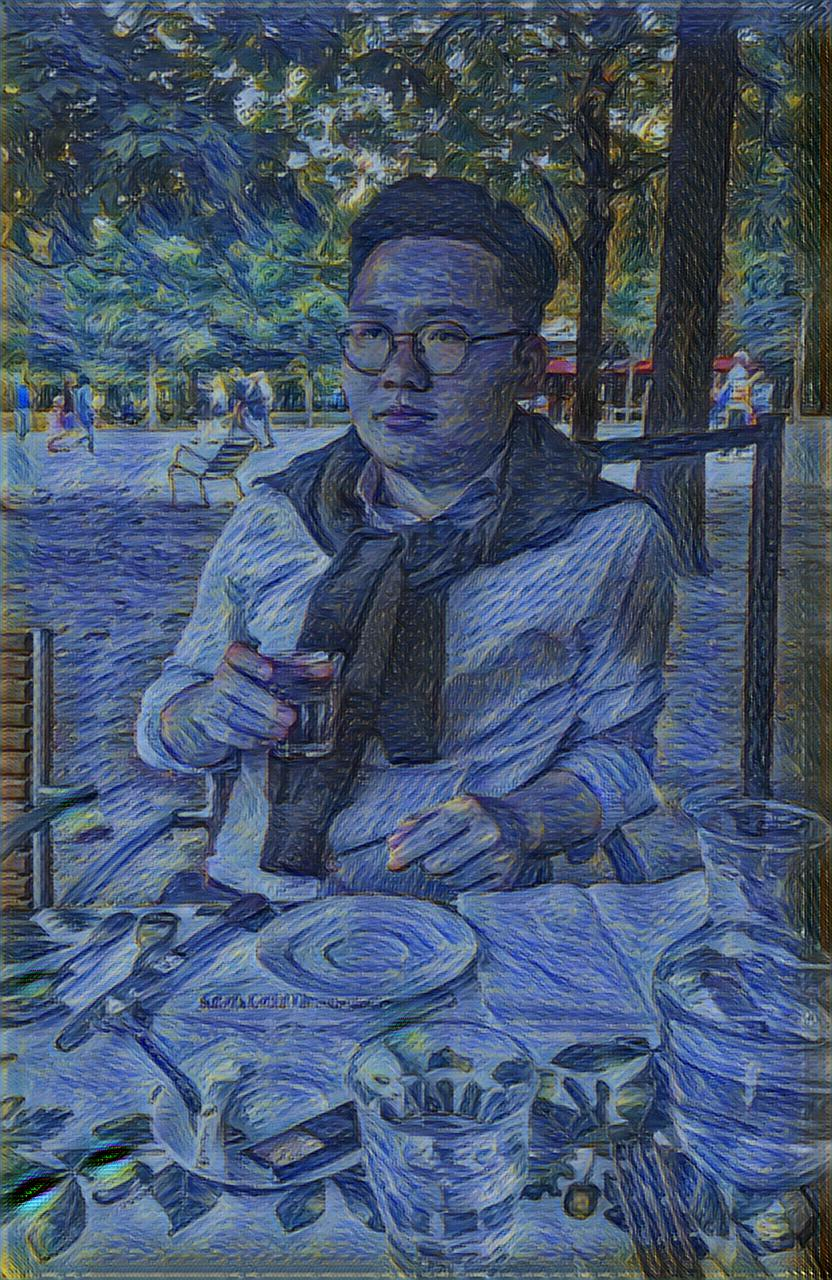
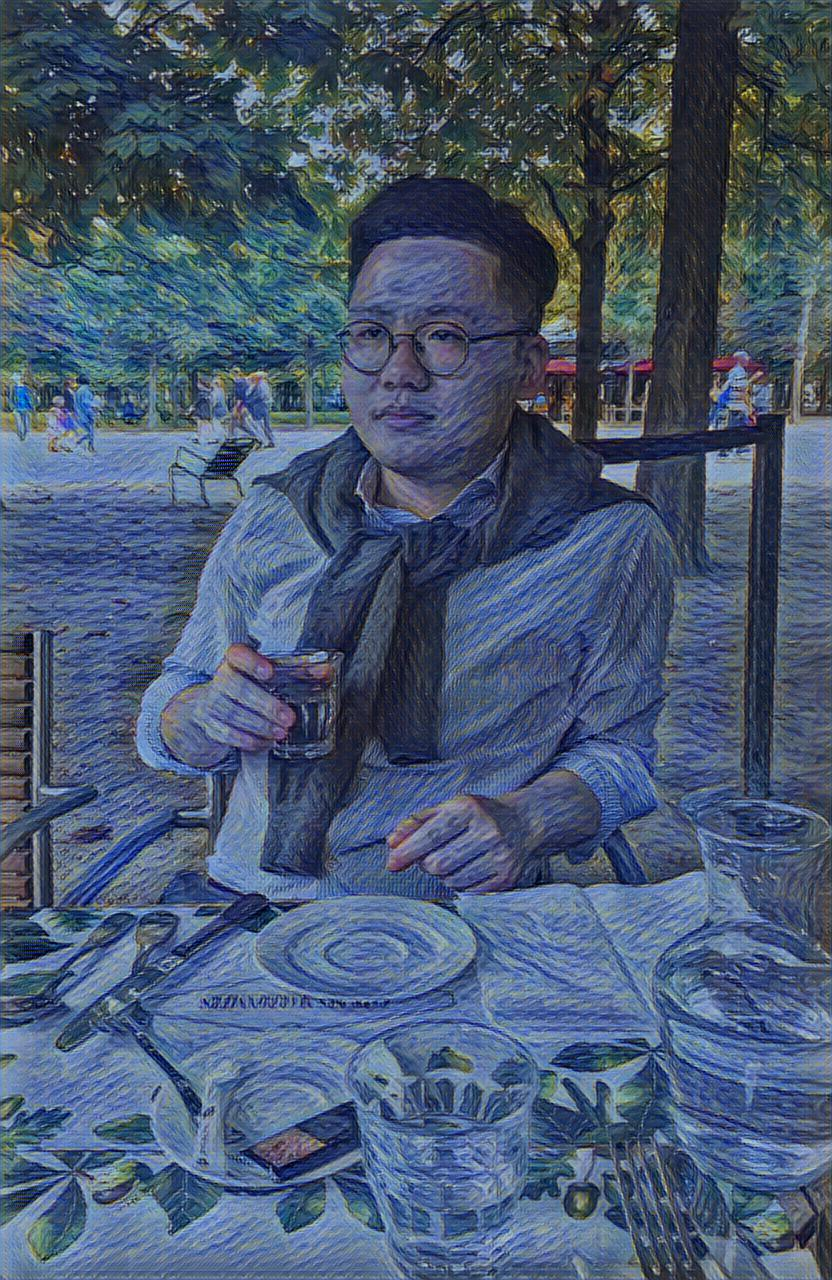
change

diff --git a/tensorflow-style-transfer-master/run_main.py b/tensorflow-style-transfer-master/run_main.py
@@ -40,17 +40,17 @@ def parse_args():
 #    exit()
 
 args = {
-        'content': 'images/tubingen.jpg',
-        'style': 'images/starry-night.jpg',
+        'content': 'images/content2.jpg',
+        'style': 'images/style6.jpg',
         'output': 'result.jpg',
         'model_path': 'pre_trained_model',
         'max_size':None,
-        'initial_type':'content',
-        'content_layers':['conv4_2'],
+        'initial_type': 'content',
+        'content_layers':['conv3_2'],
         'style_layers':['relu1_1', 'relu2_1', 'relu3_1', 'relu4_1', 'relu5_1'],
         'content_layer_weights':[1.0],
         'style_layer_weights':[.2,.2,.2,.2,.2],
-        'num_iter':300,    
+        'num_iter':200,    
         'loss_ratio':1e-3,              ## content loss relative to style loss, in the paper, it suggets (1e-4,1e-1)
         'content_loss_norm_type': 3     ## Different types of normalization for content loss, choice [1,2,3]
         }
@@ -213,6 +213,6 @@ sess.close()
 
 #%%
 utils.save_image(return_image,args['output'])
-utils.plot_images(content_image,style_image, return_image)
+#utils.plot_images(content_image,style_image, return_image)
 
 

diff --git a/fast-style-transfer/style.py b/fast-style-transfer/style.py
@@ -27,9 +27,9 @@ class args(object):
 
 
 options_dict = {
-            'style': 'examples/style/starry-night.jpg',
+            'style': 'examples/style/udnie.jpg',
             'checkpoint_dir': 'training_model',
-			'model_name': 'starry-night.ckpt',
+			'model_name': 'udnie.ckpt',
             'test': None,         # 'examples/test/stata.jpg', 
             'test_dir': None,     # 'examples/test',       
             'content_weight': 7.0e0,  # default is 7.5
